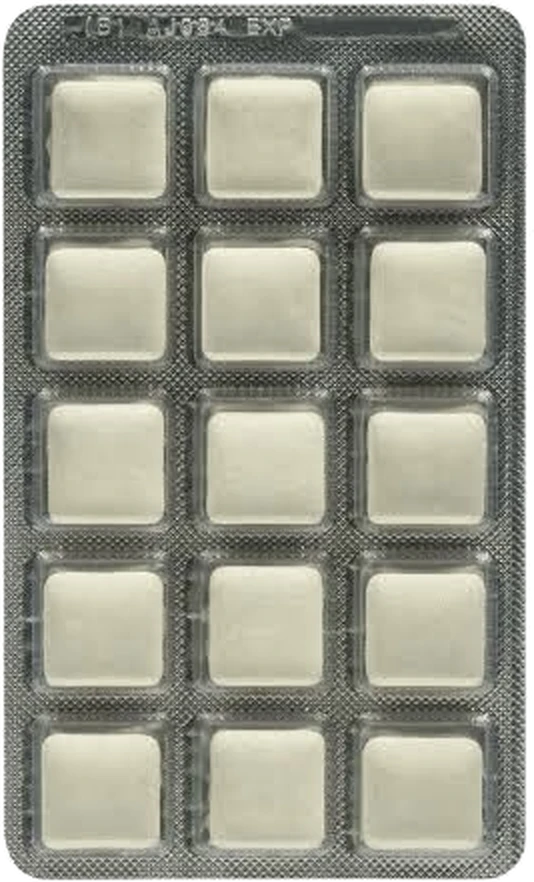
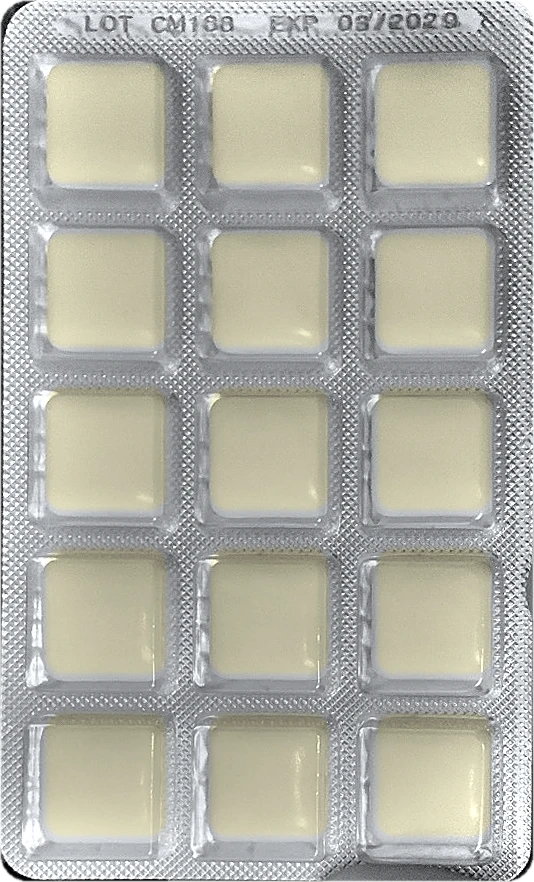
Plaquette refaite d'après la vraie plaquette neuve
Recto et verso tirés des photos réelles, redressés, éclairage uniformisé
(reflets et ombres retirés), aluminium neutre, alvéoles crème repérées
sur la vraie grille 5 x 3. Impression d'origine conservée au verso. La
plaquette se retourne désormais de gauche à droite comme la vraie (bande
LOT/EXP en haut des deux côtés). Textes du site inchangés.

Claude-Session: https://claude.ai/code/session_018qQefGZwUcEoghcZp2RfGH

diff --git a/blanc.html b/blanc.html
@@ -171,7 +171,7 @@ button{font:inherit;color:inherit}
 .bx-blis{position:absolute;left:4%;top:6%;width:92%;aspect-ratio:534/882;transform-style:preserve-3d}
 .bxf{position:absolute;inset:0;width:100%;height:100%;display:block;backface-visibility:hidden;-webkit-backface-visibility:hidden}
 .bxf--f{transform:translateZ(1.5px)}
-.bxf--b{transform:rotateX(180deg) translateZ(1.5px)}
+.bxf--b{transform:rotateY(180deg) translateZ(1.5px)}
 .bx-gum{position:absolute;left:34%;top:5%;width:32%;opacity:0;transform:translateZ(2px) scale(.35);filter:drop-shadow(0 10px 10px rgb(4 30 3/.45))}
 /* Rabat du dessus, charnière sur l'arête arrière : il s'ouvre avant que la plaquette sorte */
 .bx-lid{position:absolute;left:0;top:0;width:100%;height:var(--d);transform-style:preserve-3d;transform-origin:50% 0;transform:translateZ(calc(var(--d)/-2)) rotateX(90deg)}
@@ -339,7 +339,7 @@ button{font:inherit;color:inherit}
 .bf{position:absolute;display:block;backface-visibility:hidden;-webkit-backface-visibility:hidden}
 .bf--front,.bf--back{inset:0;width:100%;height:100%}
 .bf--front{transform:translateZ(calc(var(--bt)/2))}
-.bf--back{transform:rotateX(180deg) translateZ(calc(var(--bt)/2))}
+.bf--back{transform:rotateY(180deg) translateZ(calc(var(--bt)/2))}
 .bf--r,.bf--l{top:4%;height:92%;width:var(--bt);left:50%;margin-left:calc(var(--bt)/-2);background:linear-gradient(#8E959B,#6E757B)}
 .bf--r{transform:rotateY(90deg) translateZ(calc(var(--bw)/2 - 1px))}
 .bf--l{transform:rotateY(-90deg) translateZ(calc(var(--bw)/2 - 1px))}
@@ -355,9 +355,9 @@ button{font:inherit;color:inherit}
 @media (max-width:639px){.plans--plq .plan{padding:1.5rem .85rem 1rem;gap:.7rem}.plans--plq .plan__name{font-size:1.1rem}.plans--plq .plan__price b{font-size:2.1rem}.plans--plq .plan__unit{font-size:.7rem}.plans--plq .plan__save{font-size:.72rem;padding:.35rem .5rem}.plans--plq .plan ul{font-size:.8rem}.plans--plq .plan__tag{left:.85rem;font-size:.65rem}}
 @media (max-width:359px){.plans--plq .plan{padding-inline:.65rem}.plans--plq .plan__name{font-size:1rem}.plans--plq .mblis{--h:54px}}
 .mblis{--h:66px;--w:calc(var(--h)*534/882);position:relative;width:calc(var(--w) + 14px);height:calc(var(--h) + 8px);perspective:420px;display:grid;place-items:center}
-.mblis__in{position:relative;width:var(--w);height:var(--h);transform-style:preserve-3d;transform:rotateY(-24deg) rotateX(8deg)}
+.mblis__in{position:relative;width:var(--w);height:var(--h);transform-style:preserve-3d;transform:rotateX(8deg) rotateY(-24deg)}
 .mblis img{position:absolute;inset:0;width:100%;height:100%;backface-visibility:hidden;-webkit-backface-visibility:hidden;transform:translateZ(1px)}
-.mblis img.b{transform:rotateX(180deg) translateZ(1px)}
+.mblis img.b{transform:rotateY(180deg) translateZ(1px)}
 .plq{display:flex;flex-wrap:wrap;gap:.4rem;margin-top:.35rem}
 .plq button{flex:1 1 0;min-width:0}
 @media (max-width:519px){.pblis{grid-template-columns:1fr;justify-items:center;text-align:center}.pblis .blister{--bw:88px}.plq{width:100%}.plq button{text-align:center;justify-items:center;padding:.45rem .3rem}}
@@ -568,10 +568,10 @@ button{font:inherit;color:inherit}
   20%,71%{transform:rotateX(90deg) translateZ(calc(var(--h)/2 - 2px)) rotateY(118deg)}
   76%,100%{transform:rotateX(90deg) translateZ(calc(var(--h)/2 - 2px)) rotateY(0)}}
 @keyframes bxblis{
-  0%,21%{transform:translateY(0) rotateX(0)}
-  31%{transform:translateY(-90%) rotateX(0)}
-  40%,62%{transform:translateY(-90%) rotateX(360deg)}
-  70%,100%{transform:translateY(0) rotateX(360deg)}}
+  0%,21%{transform:translateY(0) rotateY(0)}
+  31%{transform:translateY(-90%) rotateY(0)}
+  40%,62%{transform:translateY(-90%) rotateY(360deg)}
+  70%,100%{transform:translateY(0) rotateY(360deg)}}
 @keyframes bxgum{
   0%,39%{opacity:0;transform:translateZ(2px) translate(0,0) scale(.35) rotate(0)}
   42%{opacity:1}
@@ -594,10 +594,10 @@ button{font:inherit;color:inherit}
   98.5%{transform:translateY(0) rotate(calc(var(--r) + 354deg))}
   100%{transform:translateY(0) rotate(calc(var(--r) + 360deg))}}
 @keyframes mflip{
-  0%,55%{transform:rotateY(-24deg) rotateX(8deg)}
-  80%{transform:rotateY(-24deg) rotateX(374deg)}
-  88%{transform:rotateY(-24deg) rotateX(362deg)}
-  94%,100%{transform:rotateY(-24deg) rotateX(368deg)}}
+  0%,55%{transform:rotateX(8deg) rotateY(-24deg)}
+  80%{transform:rotateX(8deg) rotateY(346deg)}
+  88%{transform:rotateX(8deg) rotateY(334deg)}
+  94%,100%{transform:rotateX(8deg) rotateY(336deg)}}
 @keyframes mspin{
   0%,55%{transform:rotateX(-10deg) rotateY(-30deg)}
   80%{transform:rotateX(-10deg) rotateY(338deg)}

diff --git a/index.html b/index.html
@@ -172,7 +172,7 @@ button{font:inherit;color:inherit}
 .bx-blis{position:absolute;left:4%;top:6%;width:92%;aspect-ratio:534/882;transform-style:preserve-3d}
 .bxf{position:absolute;inset:0;width:100%;height:100%;display:block;backface-visibility:hidden;-webkit-backface-visibility:hidden}
 .bxf--f{transform:translateZ(1.5px)}
-.bxf--b{transform:rotateX(180deg) translateZ(1.5px)}
+.bxf--b{transform:rotateY(180deg) translateZ(1.5px)}
 .bx-gum{position:absolute;left:34%;top:5%;width:32%;opacity:0;transform:translateZ(2px) scale(.35);filter:drop-shadow(0 10px 10px rgb(4 30 3/.45))}
 /* Rabat du dessus, charnière sur l'arête arrière : il s'ouvre avant que la plaquette sorte */
 .bx-lid{position:absolute;left:0;top:0;width:100%;height:var(--d);transform-style:preserve-3d;transform-origin:50% 0;transform:translateZ(calc(var(--d)/-2)) rotateX(90deg)}
@@ -340,7 +340,7 @@ button{font:inherit;color:inherit}
 .bf{position:absolute;display:block;backface-visibility:hidden;-webkit-backface-visibility:hidden}
 .bf--front,.bf--back{inset:0;width:100%;height:100%}
 .bf--front{transform:translateZ(calc(var(--bt)/2))}
-.bf--back{transform:rotateX(180deg) translateZ(calc(var(--bt)/2))}
+.bf--back{transform:rotateY(180deg) translateZ(calc(var(--bt)/2))}
 .bf--r,.bf--l{top:4%;height:92%;width:var(--bt);left:50%;margin-left:calc(var(--bt)/-2);background:linear-gradient(#8E959B,#6E757B)}
 .bf--r{transform:rotateY(90deg) translateZ(calc(var(--bw)/2 - 1px))}
 .bf--l{transform:rotateY(-90deg) translateZ(calc(var(--bw)/2 - 1px))}
@@ -356,9 +356,9 @@ button{font:inherit;color:inherit}
 @media (max-width:639px){.plans--plq .plan{padding:1.5rem .85rem 1rem;gap:.7rem}.plans--plq .plan__name{font-size:1.1rem}.plans--plq .plan__price b{font-size:2.1rem}.plans--plq .plan__unit{font-size:.7rem}.plans--plq .plan__save{font-size:.72rem;padding:.35rem .5rem}.plans--plq .plan ul{font-size:.8rem}.plans--plq .plan__tag{left:.85rem;font-size:.65rem}}
 @media (max-width:359px){.plans--plq .plan{padding-inline:.65rem}.plans--plq .plan__name{font-size:1rem}.plans--plq .mblis{--h:54px}}
 .mblis{--h:66px;--w:calc(var(--h)*534/882);position:relative;width:calc(var(--w) + 14px);height:calc(var(--h) + 8px);perspective:420px;display:grid;place-items:center}
-.mblis__in{position:relative;width:var(--w);height:var(--h);transform-style:preserve-3d;transform:rotateY(-24deg) rotateX(8deg)}
+.mblis__in{position:relative;width:var(--w);height:var(--h);transform-style:preserve-3d;transform:rotateX(8deg) rotateY(-24deg)}
 .mblis img{position:absolute;inset:0;width:100%;height:100%;backface-visibility:hidden;-webkit-backface-visibility:hidden;transform:translateZ(1px)}
-.mblis img.b{transform:rotateX(180deg) translateZ(1px)}
+.mblis img.b{transform:rotateY(180deg) translateZ(1px)}
 .plq{display:flex;flex-wrap:wrap;gap:.4rem;margin-top:.35rem}
 .plq button{flex:1 1 0;min-width:0}
 @media (max-width:519px){.pblis{grid-template-columns:1fr;justify-items:center;text-align:center}.pblis .blister{--bw:88px}.plq{width:100%}.plq button{text-align:center;justify-items:center;padding:.45rem .3rem}}
@@ -569,10 +569,10 @@ button{font:inherit;color:inherit}
   20%,71%{transform:rotateX(90deg) translateZ(calc(var(--h)/2 - 2px)) rotateY(118deg)}
   76%,100%{transform:rotateX(90deg) translateZ(calc(var(--h)/2 - 2px)) rotateY(0)}}
 @keyframes bxblis{
-  0%,21%{transform:translateY(0) rotateX(0)}
-  31%{transform:translateY(-90%) rotateX(0)}
-  40%,62%{transform:translateY(-90%) rotateX(360deg)}
-  70%,100%{transform:translateY(0) rotateX(360deg)}}
+  0%,21%{transform:translateY(0) rotateY(0)}
+  31%{transform:translateY(-90%) rotateY(0)}
+  40%,62%{transform:translateY(-90%) rotateY(360deg)}
+  70%,100%{transform:translateY(0) rotateY(360deg)}}
 @keyframes bxgum{
   0%,39%{opacity:0;transform:translateZ(2px) translate(0,0) scale(.35) rotate(0)}
   42%{opacity:1}
@@ -595,10 +595,10 @@ button{font:inherit;color:inherit}
   98.5%{transform:translateY(0) rotate(calc(var(--r) + 354deg))}
   100%{transform:translateY(0) rotate(calc(var(--r) + 360deg))}}
 @keyframes mflip{
-  0%,55%{transform:rotateY(-24deg) rotateX(8deg)}
-  80%{transform:rotateY(-24deg) rotateX(374deg)}
-  88%{transform:rotateY(-24deg) rotateX(362deg)}
-  94%,100%{transform:rotateY(-24deg) rotateX(368deg)}}
+  0%,55%{transform:rotateX(8deg) rotateY(-24deg)}
+  80%{transform:rotateX(8deg) rotateY(346deg)}
+  88%{transform:rotateX(8deg) rotateY(334deg)}
+  94%,100%{transform:rotateX(8deg) rotateY(336deg)}}
 @keyframes mspin{
   0%,55%{transform:rotateX(-10deg) rotateY(-30deg)}
   80%{transform:rotateX(-10deg) rotateY(338deg)}
